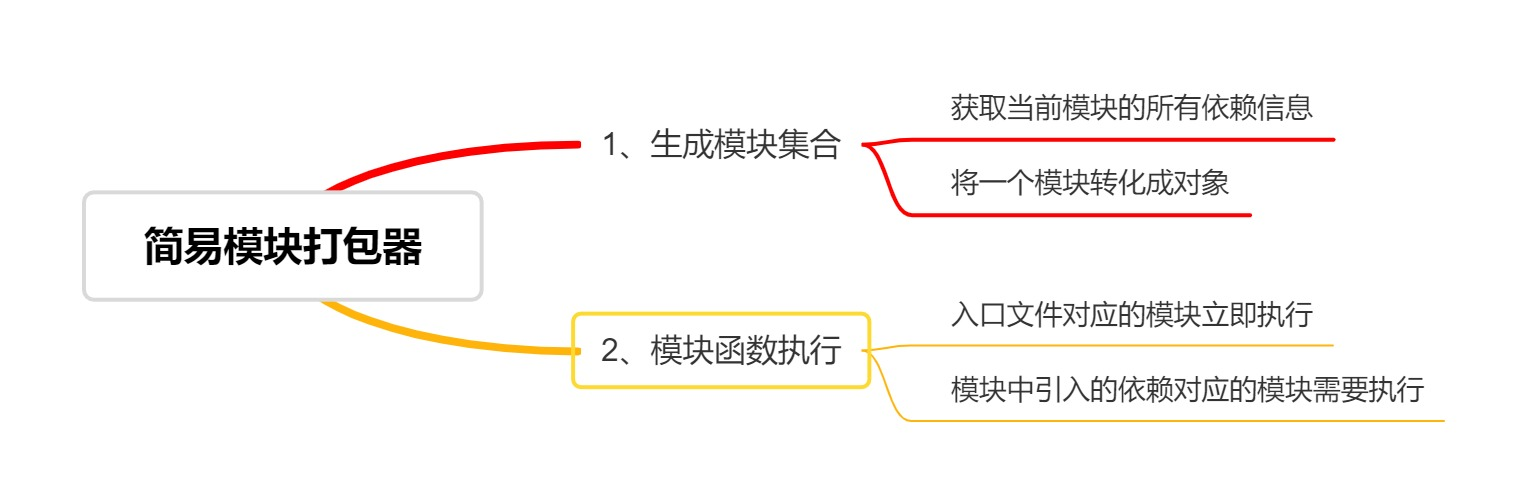
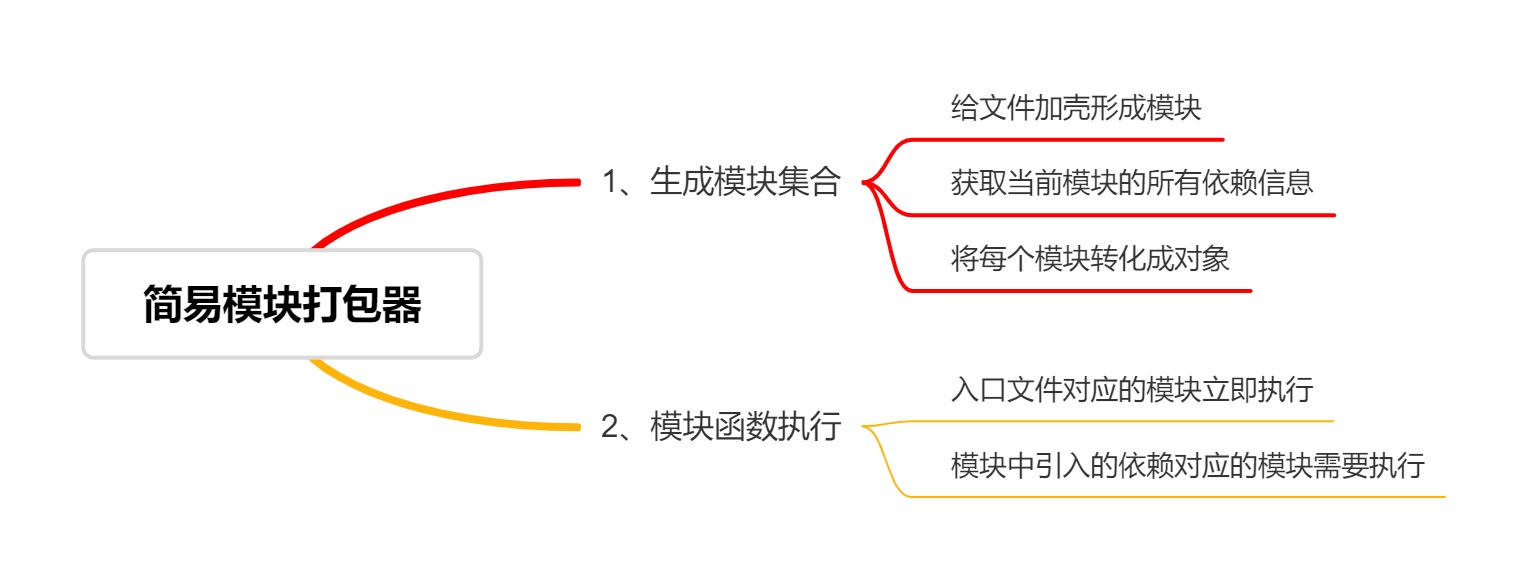
修改note.md

Changed region(s): [[0.0615, 0.1494, 0.9535, 0.8665]]

diff --git a/example/note.md b/example/note.md
@@ -1,5 +1,3 @@
-
-
 ## 一、模块打包器
 ### 1.1 什么是模块打包器
 我们看官网对`webpack`的定义：webpack 是一个现代 JavaScript 应用程序的**静态模块打包器(module bundler)**。当 webpack 处理应用程序时，它会递归地构建一个依赖关系图(dependency graph)，其中包含应用程序需要的每个模块，然后将所有这些模块打包成一个或多个bundle。更加通俗地理解就是：每个文件就是一个模块，一个文件中又会引入其他文件的内容，我们最终要实现的就是以某i一个文件为入口：将它所有依赖的文件最终打包成一个文件，这就是**模块打包器**。
@@ -79,7 +77,7 @@ exports.name = "haiyingsitan";
     },
   };
 
-  // 根据模块id解析依赖
+  // require对应的模块函数执行
   function __webpack_require__(moduleId) {
     // 其他实现
     return module.exports;
@@ -107,8 +105,8 @@ exports.name = "haiyingsitan";
     },
   };
 ```
-2. 模块依赖解析器
-模块依赖解析器就是根据每个模块的模块id，然后逐渐获取到这个模块的所有依赖，最终获取到导出的exports值。
+2. 模块函数执行
+每一个模块对应于一个函数，当遇到`require(xxx)`的时候实际上就是去执行引入的这个模块函数。
 ```javascript
    var __webpack_module_cache__ = {};
    function __webpack_require__(moduleId) {
@@ -124,7 +122,7 @@ exports.name = "haiyingsitan";
 ```
 3. 入口文件立即执行（执行模块的函数）
 我们都知道一个模块的打包，必须有一个入口文件，而且这个文件必须立即执行，才能获取到所有的依赖。
-也就是说我们需要一个执行模块的函数。
+其实入口文件，也是一个模块，立即执行这个模块对应的函数即可。
 ```javascript
   let entryFn = () => {
     let action = __webpack_require__("./action.js").action;
@@ -134,10 +132,22 @@ exports.name = "haiyingsitan";
   };
   entryFn();
 ```
-好了，到目前为止，我们基本知道了webpack模块打包后生成的文件是什么样的，如果我们想要实现同样的功能，只需要同时实现：模块集合，模块依赖解析器和入口函数立即执行即可。其中最关键的就是实现模块集合和模块依赖解析器。
+好了，到目前为止，我们基本知道了webpack模块打包后生成的文件是什么样的。如果我们想要实现同样的功能，只需要同时实现：模块集合，模块执行和入口函数立即执行即可。**其中最关键的就是实现模块集合和模块执行。**
+
+
 
 ## 二、具体实现
+![](https://ftp.bmp.ovh/imgs/2020/11/82d342b1b19a9623.jpg)
+
+从上面的分析中我们可以知道，我们要实现的主要包括两个部分：
+
+1. 将项目中所有的依赖生成一个大的模块集合
+2. 模块执行函数。遇到引入模块时，执行对应的函数。
+
 ### 2.1 实现模块集合
+
+#### 2.1.1 给文件内容加壳
+
 我们可以看下每个模块的具体内容：
 ```javascript
   var modules = {
@@ -148,8 +158,9 @@ exports.name = "haiyingsitan";
     },
   };
 ```
-事实上，模块打包器就是把文件的内容放入到一个函数中作为一个模块，然后给这个模块一个模块id(这里是直接以路径作为模块id)。为什么要把文件放入到一个函数中了，这是因为我们都知道模块化最重要的一个特点就是环境隔离，各个模块之间互不影响，试想一下，如果不对文件内容进行处理，而是直接打包到一起，那么各个模块之间定义的变量在同一作用域肯定会互相影响。而函数常常用来形成一个单独的作用域，用来隔离变量。因此，我们首先给所有文件加壳。
+事实上，模块打包器就是把文件的内容放入到一个函数中作为一个模块，然后给这个模块一个模块id(这里是直接以路径作为模块id)。为什么要把文件放入到一个函数中了，这是因为我们都知道模块化最重要的一个特点就是环境隔离，各个模块之间互不影响。试想一下，如果不对文件内容进行隔离处理，而是直接打包到一起，那么各个模块之间定义的变量在同一作用域肯定会互相影响。而函数常常用来形成一个单独的作用域，用来隔离变量。因此，我们首先给所有文件加壳。
 **index.js模块**
+
 ```javascript
 function(require,exports){
     let action = require("./action.js").action;
@@ -159,6 +170,7 @@ function(require,exports){
 }
 ```
 **action.js模块**
+
 ```javascript
 function(require,exports){
     let action = "making webpack";
@@ -166,6 +178,7 @@ function(require,exports){
 }
 ```
 **name.js模块**
+
 ```javascript
 function(require,exports){
     let familyName = require("./family-name.js").name;
@@ -178,7 +191,7 @@ function(require,exports){
     exports.name = "haiyingsitan";
 }
 ```
-然后，将这些模块组成一个集合。这里我们直接使用序号作为每个模块的id。
+然后，将这些模块组成一个集合。这里我们直接使用文件路径作为每个模块的id。
 ```javascript
 const modules = {
   "./index.js":function(require,exports){
@@ -200,15 +213,24 @@ const modules = {
   }
 };
 ```
-接下来我们看下如何去实现将每个文件转化成模块，最终得到一个模块集合。
+也就是说，我们最终要实现的就是这样的一个集合。
+
+到目前为止，我们要实现的功能是：
+
+1. 给每个文件内容加壳
+2. 每个模块以路径作为模块id
+3. 将加壳后的函数作为一个模块
+
+我们看下具体的实现如下：
+
 ```javascript
 const fs = require("fs");
 let modules = {};
 const fileToModule = function (path) {
   const fileContent = fs.readFileSync(path).toString();
   return {
-    id: path,
-    code: `function(require,exports){
+    id: path,                             // 这里以路径作为模块id
+    code: `function(require,exports){     // 这里加壳了
             ${fileContent.toString()};
         }`,
   };
@@ -219,12 +241,13 @@ console.log("modules=",modules);
 ```
 输出的结果为：
 ```javascript
-modules= { './index.js':
-   'function(require,exports){\n    let action = require("./action.js").action;\r\nlet name = require("./name.js").name;\r\nlet message = `${name} is ${action}`;\r\nconsole.log(message);\r\n;\n  }' }
+modules= {
+    './index.js':'function(require,exports){\n    let action = require("./action.js").action;\r\nlet name = require("./name.js").name;\r\nlet message = `${name} is ${action}`;\r\nconsole.log(message);\r\n;\n  }' 
+}
 ```
-从上面我们可以看出，我们成功地将入口文件转化成一个模块，并且将其添加到模块对象中去了。但是我们发现我们的文件中其实还依赖了`./action.js`和`./name.js`，但是我们无法获取到他们的内容。因此，我们需要处理下`require`引入的模块。也就是说要找到当前模块中的所有依赖，然后解析这些依赖将其放入模块集合中。
+从上面我们可以看出，我们成功地将入口文件转化成一个模块，并且将其添加到模块对象中去了。但是我们发现我们的文件中其实还依赖了`./action.js`和`./name.js`，然而我们无法获取到他们的模块内容。因此，我们需要处理`require`引入的模块。也就是说要找到当前模块中的所有依赖，然后解析这些依赖将其放入模块集合中。
 
-### 2.2 模块依赖解析器
+#### 2.1.2 获取当前模块的所有依赖
 接下来我们就是要实现找到一个模块中所有的依赖。
 ```javascript
 // const action = require("./action.js")
@@ -247,6 +270,7 @@ console.log(result)  // ["./action.js","./name.js"]
 ```
 我们可以顺利获取到入口文件的所有依赖，接下来我们就是要进一步去解析这些入口文件的依赖了。
 因此，我们在文件转化成模块时，最好把模块的所有依赖信息也展示出来方便处理。因此，我们修改一下`fileToModule`这个函数。
+
 ```javascript
 const fileToModule = function (path) {
   const fileContent = fs.readFileSync(path).toString();
@@ -259,8 +283,10 @@ const fileToModule = function (path) {
   }
 };
 ```
-好了，到目前为止我们能够获取到每个模块的依赖，同时我们又能够把每个依赖转化成一个对象，那么接下来就是把所有的
-对象组成一个大的模块对象。
+好了，到目前为止我们能够获取到每个模块的依赖，同时我们又能够把每个依赖转化成一个对象，那么接下来就是把所有的对象放到一个大的对象中从而得到项目中所有模块的集合。
+
+#### 2.1.3 将所有模块组成一个集合
+
 ```javascript
 function createGraph(filename) {
   let module = fileToModule(filename);
@@ -274,6 +300,7 @@ function createGraph(filename) {
       queue.push(child);
     });
   }
+    // 上面得到的是一个数组。转化成对象
   let modules = {}
   queue.forEach((item) => {
     modules[item.id] = item.code;
@@ -282,8 +309,9 @@ function createGraph(filename) {
 }
 console.log(createGraph("./index.js"));
 ```
-`createGraph`就是根据入口文件，然后一次获取到所有的依赖，每获取一个就将其添加到queue数组中，由于使用let of 进行遍历，let of会继续遍历新添加的元素，而不需要像for循环那样，需要进行处理。
+`createGraph`就是根据入口文件，然后依次获取到所有的依赖，每获取一个就将其添加到queue数组中，由于使用let of 进行遍历，let of会继续遍历新添加的元素，而不需要像for循环那样，需要进行处理。
 我们看下入口文件最终得到的模块集合:
+
 ```javascript
 {
     './index.js': 'function(require,exports){ let action = require("./action.js").action;\r\nlet name = require("./name.js").name;\r\nlet message = `${name} is ${action}`;\r\nconsole.log(message);\r\n;\n}',
@@ -293,7 +321,7 @@ console.log(createGraph("./index.js"));
 }
 ```
 
-### 2.3 执行模块的函数
+### 2.2 执行模块的函数
 我们在上面的模块对象中获得了所有模块信息，接下来我们执行入口文件对应的函数`exec`。
 ![](https://ftp.bmp.ovh/imgs/2020/11/16c8cca17aba885b.jpg)。
 从上图中我们可以看出：当我们执行入口文件对应的函数时`exec(index.js)`，它发现:
@@ -331,7 +359,7 @@ const fileToModule = function (path) {
 ```
 我们不方便去执行一个字符串，因此我们考虑把code声明成一个函数，函数里面是模块的内容，通过`eval`去执行。但是当我们写入文件时不需要这样，这里是为了方便查看。
 
-### 2.4 将打包后的文件写入指定文件
+### 2.3 将打包后的文件写入指定文件
 好了，到目前为止我们实现了一个模块打包器所需要的三个部分：模块集合，模块解析器以及模块的执行函数。最终完整的代码如下：
 ```javascript
 const fs = require("fs");
@@ -463,5 +491,5 @@ function createBundle(modules){
   //入口函数执行
   exec("./index.js");
 })()
-
 ```
+我们可以看到打包后的文件跟webpackd打包后的文件基本相同。(注意：由于目前只支持引入自定义模块，对于内置的path等无法引入，因此如果要测试打包后的文件能否正常执行，请手动在文件顶部加上path的引入)。
